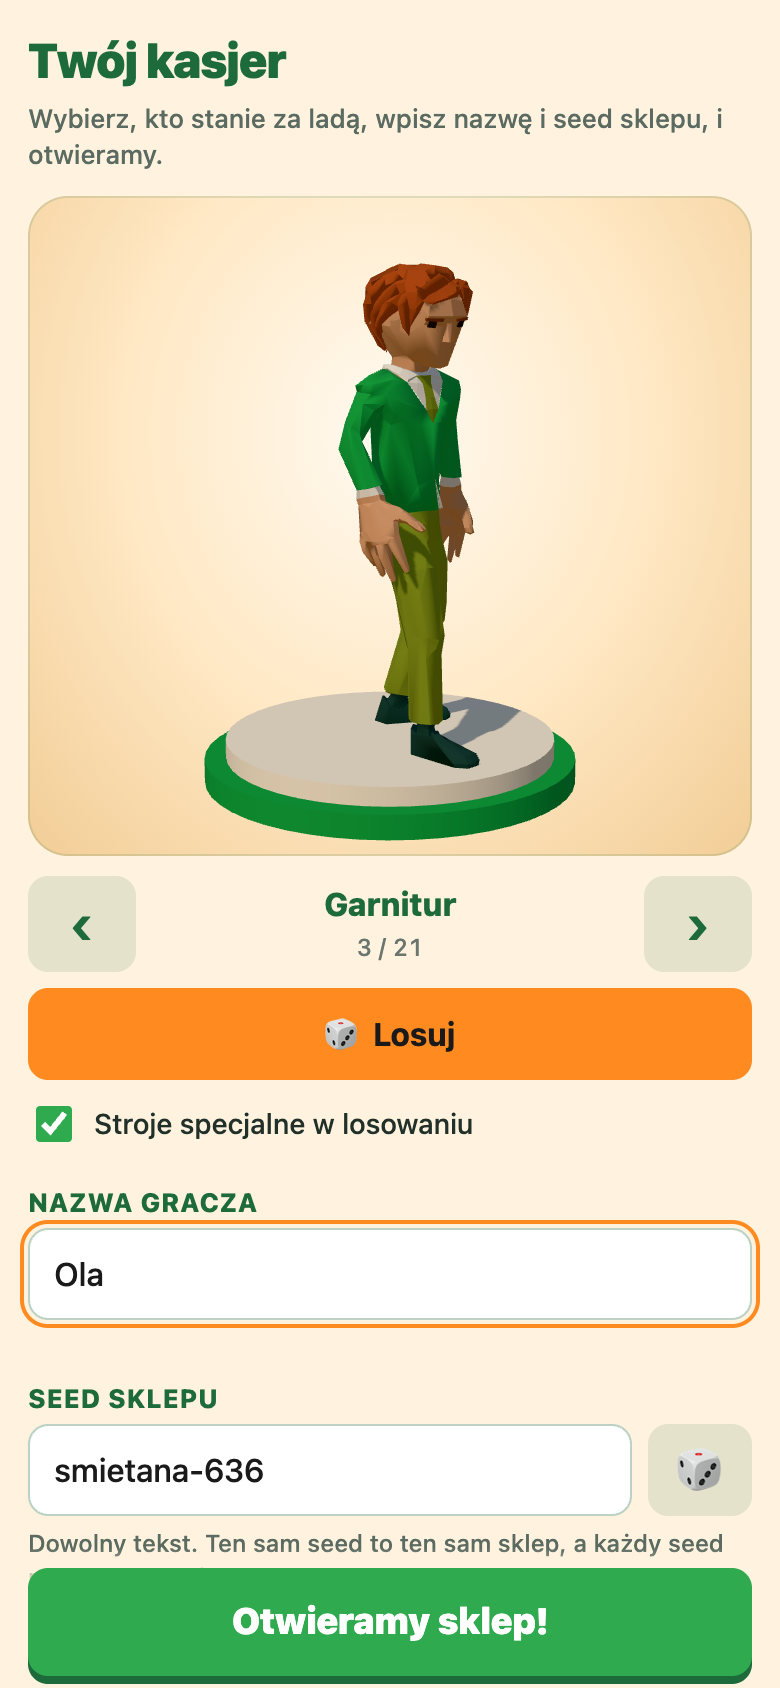
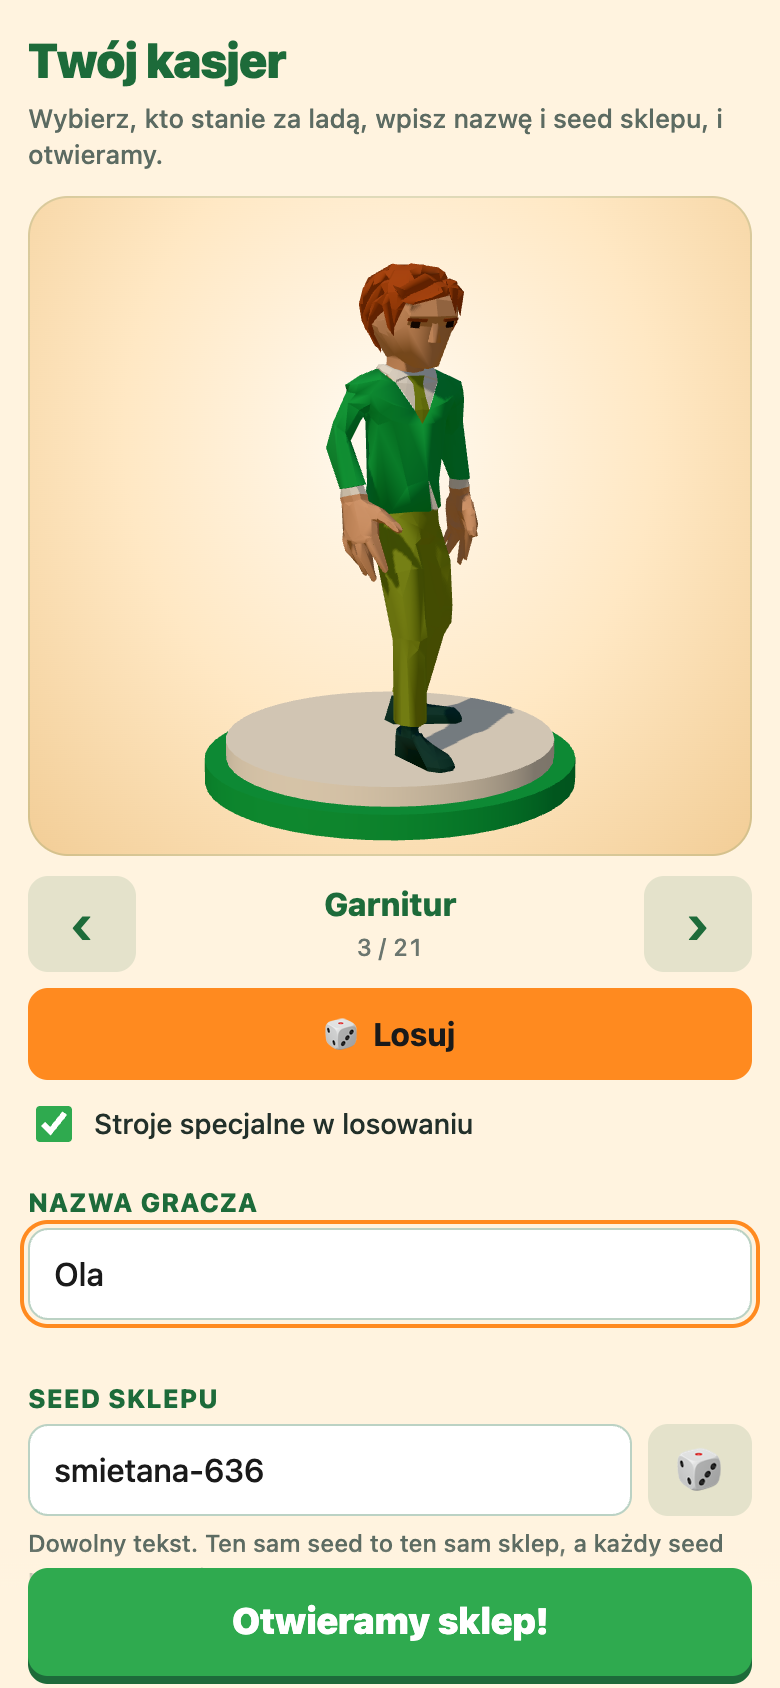
fix(ui): ekran startowy na niskich telefonach i poziomo, a „Otwieramy sklep!” odpowiada od razu
Z przeglądu K3 (Important 2, Minor 6 i 7).

Important 2: na 320×568 i 360×640 przyklejony pasek z przyciskiem leżał na polu nazwy, a pusty nick wołał `focus()`, który nie
przewija (pole formalnie jest w oknie), więc błąd zostawał pod paskiem albo poniżej, i nic widocznego się nie działo.
- Wysokość paska (`.tt-start-go`, 70 px, 118 px z „Wróć do gry”) mierzy `ResizeObserver` i zapisuje w `--tt-go-h` okna ekranu, a CSS
  robi z niej `scroll-padding-bottom` w układach z przyklejonym paskiem: przewijanie do pola (focus klawiszem, klawiatura ekranowa)
  zatrzymuje się nad paskiem. Po złym nicku (po narysowaniu komunikatu, każda zła próba, także z tym samym tekstem) pole wjeżdża
  na środek okna nad pasek razem z błędem, a `focus` idzie z `preventScroll`.
Minor 7: telefon poziomo węższy niż 700 px (667×375) dostawał jedną kolumnę, w której przycisk startu nie mieścił się w oknie bez
przewijania. Jedna kolumna jest teraz dla okna w pionie albo węższego niż 560 px, a niskie okno poziome (do 600 px wysokości, od 560 px
szerokości) ma dwie kolumny z przyciskiem przyklejonym w prawej.
Minor 6: pierwsze malowanie po „Otwieramy sklep!” przychodziło po całej budowie świata (1,15 s w przeglądzie), bo praca szła w tym
samym zadaniu co kliknięcie. `createLauncher` (ui/start/launch.ts) daje odpowiedź od razu (przycisk wyłączony z napisem „Otwieramy…”,
reszta ekranu nie reaguje, „Wróć do gry” i Escape też nie), a pracę zaczyna po klatce (`nextPaint`: rAF, potem zadanie po
[…]

Changed region(s): [[0.4, 0.154, 0.6154, 0.4621], [0.6462, 0.4005, 0.6769, 0.4313]]

diff --git a/src/ui/start/StartScreen.tsx b/src/ui/start/StartScreen.tsx
@@ -8,6 +8,7 @@ import { submitStart } from '@/game/start';
 import type { OutfitFile } from '@/render/characters/modularPack';
 import { DISCLAIMER } from '../game/overlays';
 import { start, type StartRequest } from '../state';
+import { createLauncher, type Launcher } from './launch';
 import { createStartPreview, type StartPreview } from './preview';
 
 /** Nazwy strojów pod podglądem (typ pilnuje, że każdy z 21 strojów ma nazwę). */
@@ -59,8 +60,16 @@ function StartScreen({ request }: { request: StartRequest }) {
   /** Podgląd 3D: `loading` do czasu fabryki postaci, `ready` gdy stoi, `none` gdy się nie udał (formularz działa i bez niego). */
   const [stage, setStage] = useState<'loading' | 'ready' | 'none'>('loading');
   const [pending, setPending] = useState(false);
+  /** „Otwieramy sklep!” ruszyło: przycisk jest wyłączony z napisem „Otwieramy…”, a budowa świata czeka na namalowanie go. */
+  const [busy, setBusy] = useState(false);
+  /** Licznik próśb o pokazanie pola z błędem (każda zła próba zatwierdzenia, także z tym samym komunikatem, przewija na nowo). */
+  const [revealTick, setRevealTick] = useState(0);
+  const wrapRef = useRef<HTMLDivElement>(null);
+  const bandRef = useRef<HTMLDivElement>(null);
   const canvasRef = useRef<HTMLCanvasElement>(null);
   const nickRef = useRef<HTMLInputElement>(null);
+  const launcherRef = useRef<Launcher | null>(null);
+  launcherRef.current ??= createLauncher();
   const previewRef = useRef<StartPreview | null>(null);
   const lookRef = useRef(look);
   lookRef.current = look;
@@ -111,7 +120,10 @@ function StartScreen({ request }: { request: StartRequest }) {
     start.value = null;
     then();
   };
-  const back = (): void => close(() => request.onBack?.());
+  const back = (): void => {
+    if (launcherRef.current?.busy) return;   // „Otwieramy…” już ruszyło: nie ma powrotu
+    close(() => request.onBack?.());
+  };
 
   useEffect(() => {
     if (request.mode !== 'new') return;
@@ -119,6 +131,31 @@ function StartScreen({ request }: { request: StartRequest }) {
     window.addEventListener('keydown', onKey);
     return () => window.removeEventListener('keydown', onKey);
   }, []);
+
+  /**
+   * Przyklejony pasek z przyciskiem (telefon, niskie okno) zasłania dół okna, więc to, co ma być widać (pole z błędem, pole, na które
+   * przeszło się klawiszem), musi zatrzymać się nad nim: wysokość paska idzie do `--tt-go-h`, a CSS robi z niej `scroll-padding-bottom`
+   * okna ekranu (`ui.css`). Pasek bywa wyższy z „Wróć do gry”, ma też pas na dole ekranu telefonu, więc mierzymy go, a nie zgadujemy.
+   */
+  useEffect(() => {
+    const wrap = wrapRef.current;
+    const band = bandRef.current;
+    if (!wrap || !band) return;
+    const sync = (): void => { wrap.style.setProperty('--tt-go-h', `${band.offsetHeight}px`); };
+    sync();
+    if (typeof ResizeObserver === 'undefined') return;
+    const observer = new ResizeObserver(sync);
+    observer.observe(band);
+    return () => observer.disconnect();
+  }, []);
+
+  /** Po złym zatwierdzeniu (już po narysowaniu komunikatu) pole nazwy wjeżdża nad pasek z przyciskiem, razem z błędem pod nim. */
+  useEffect(() => {
+    const input = nickRef.current;
+    if (revealTick === 0 || !input) return;
+    input.scrollIntoView({ block: 'center' });   // wnętrze okna bez paska (scroll-padding-bottom), więc błąd pod polem też jest widać
+    input.focus({ preventScroll: true });
+  }, [revealTick]);
 
   /**
    * Limit pola seeda liczy punkty kodowe (`SEED_MAX`: emoji to jeden znak), więc pilnuje go ten program, a nie `maxLength`, który
@@ -136,21 +173,23 @@ function StartScreen({ request }: { request: StartRequest }) {
 
   const submit = (e: Event): void => {
     e.preventDefault();
+    if (launcherRef.current?.busy) return;
     const result = submitStart({ nick, seed, look, specialOutfits: special });
     if (!result.ok) {
       setNickError(result.nickError);
-      nickRef.current?.focus();
+      setRevealTick((t) => t + 1);
       return;
     }
-    close(() => request.onStart(result.choice));
+    // odpowiedź od razu („Otwieramy…”), a ciężka budowa świata dopiero po jej namalowaniu (launch.ts)
+    launcherRef.current?.launch(() => setBusy(true), () => close(() => request.onStart(result.choice)));
   };
 
   const label = OUTFIT_LABEL[look.outfit];
   const at = OUTFIT_ORDER.indexOf(look.outfit) + 1;
   return (
-    <div class="tt-modal-wrap tt-start-wrap">
+    <div ref={wrapRef} class="tt-modal-wrap tt-start-wrap">
       <div class="tt-modal tt-start" role="dialog" aria-modal="true" aria-labelledby="tt-start-title">
-        <form class="tt-start-grid" noValidate onSubmit={submit}>
+        <form class={`tt-start-grid${busy ? ' is-busy' : ''}`} noValidate aria-busy={busy} onSubmit={submit}>
           <header class="tt-start-head">
             <h2 id="tt-start-title">Twój kasjer</h2>
             <p class="tt-hint">Wybierz, kto stanie za ladą, wpisz nazwę i seed sklepu, i otwieramy.</p>
@@ -190,9 +229,9 @@ function StartScreen({ request }: { request: StartRequest }) {
             </div>
             <p class="tt-hint">Dowolny tekst. Ten sam seed to ten sam sklep, a każdy seed ma własny zapis gry.</p>
 
-            <div class="tt-start-go">
-              <button type="submit" class="tt-btn tt-primary big">Otwieramy sklep!</button>
-              {request.mode === 'new' && <button type="button" class="tt-btn big tt-back" onClick={back}>Wróć do gry</button>}
+            <div ref={bandRef} class="tt-start-go">
+              <button type="submit" class="tt-btn tt-primary big" disabled={busy}>{busy ? 'Otwieramy…' : 'Otwieramy sklep!'}</button>
+              {request.mode === 'new' && <button type="button" class="tt-btn big tt-back" disabled={busy} onClick={back}>Wróć do gry</button>}
             </div>
             <p class="tt-disclaimer2">{DISCLAIMER}</p>
           </section>

diff --git a/src/ui/start/launch.test.ts b/src/ui/start/launch.test.ts
@@ -1,0 +1,109 @@
+import { afterEach, beforeEach, describe, expect, it, vi } from 'vitest';
+import { createLauncher, nextPaint } from './launch';
+
+beforeEach(() => { vi.useFakeTimers(); });
+afterEach(() => { vi.useRealTimers(); });
+
+/** Czy obietnica już się spełniła (bez czekania na nią). */
+const settled = async (promise: Promise<unknown>): Promise<boolean> => {
+  let done = false;
+  void promise.then(() => { done = true; });
+  await Promise.resolve();
+  await Promise.resolve();
+  return done;
+};
+
+describe('nextPaint: spełnia się dopiero po namalowaniu klatki', () => {
+  it('nie wcześniej niż po klatce: rAF woła się przed malowaniem, więc dopiero zadanie zaplanowane z niego liczy się jako „po”', async () => {
+    const frames: (() => void)[] = [];
+    const promise = nextPaint(120, (callback) => frames.push(callback), (callback, ms) => setTimeout(callback, ms));
+    expect(await settled(promise)).toBe(false);          // klatka jeszcze nie przyszła
+    expect(frames).toHaveLength(1);
+    frames[0]!();                                        // klatka: callback rAF, tuż przed malowaniem
+    expect(await settled(promise)).toBe(false);          // jeszcze przed malowaniem: czeka na zadanie po nim
+    await vi.advanceTimersByTimeAsync(0);                // zadanie po malowaniu
+    expect(await settled(promise)).toBe(true);
+  });
+
+  it('karta w tle nie rysuje klatek (rAF stoi): spełnia się po limicie czasu, a nie wisi w nieskończoność', async () => {
+    const promise = nextPaint(120, () => 0, (callback, ms) => setTimeout(callback, ms));
+    await vi.advanceTimersByTimeAsync(119);
+    expect(await settled(promise)).toBe(false);
+    await vi.advanceTimersByTimeAsync(1);
+    expect(await settled(promise)).toBe(true);
+  });
+
+  it('domyślnie używa requestAnimationFrame i setTimeout przeglądarki', async () => {
+    const raf = vi.fn((callback: () => void) => { setTimeout(callback, 16); return 1; });
+    vi.stubGlobal('requestAnimationFrame', raf);
+    try {
+      const promise = nextPaint();
+      expect(raf).toHaveBeenCalledTimes(1);
+      await vi.advanceTimersByTimeAsync(16);               // klatka (callback rAF)
+      expect(await settled(promise)).toBe(false);
+      await vi.advanceTimersByTimeAsync(1);                // zadanie po klatce
+      expect(await settled(promise)).toBe(true);
+    } finally {
+      vi.unstubAllGlobals();
+    }
+  });
+});
+
+describe('createLauncher: odpowiedź od razu, praca po namalowaniu, start tylko raz', () => {
+  /** `wait` sterowane z testu: spełnia się na polecenie. */
+  const gate = () => {
+    let open!: () => void;
+    const wait = vi.fn(() => new Promise<void>((resolve) => { open = resolve; }));
+    return { wait, open: () => open() };
+  };
+
+  it('odpowiedź (feedback) idzie od razu, a praca dopiero po namalowaniu', async () => {
+    const { wait, open } = gate();
+    const order: string[] = [];
+    const launcher = createLauncher(wait);
+    expect(launcher.launch(() => order.push('odpowiedź'), () => order.push('praca'))).toBe(true);
+    expect(order).toEqual(['odpowiedź']);                // praca nie ruszyła w tym samym zadaniu
+    expect(wait).toHaveBeenCalledTimes(1);
+    await Promise.resolve();
+    expect(order).toEqual(['odpowiedź']);
+    open();
+    await Promise.resolve();
+    await Promise.resolve();
+    expect(order).toEqual(['odpowiedź', 'praca']);
+  });
+
+  it('busy od pierwszego wywołania; drugie wywołanie w międzyczasie (podwójne kliknięcie, Enter w polu) nic nie robi', async () => {
+    const { wait, open } = gate();
+    const launcher = createLauncher(wait);
+    expect(launcher.busy).toBe(false);
+    const work = vi.fn();
+    const feedback = vi.fn();
+    expect(launcher.launch(feedback, work)).toBe(true);
+    expect(launcher.busy).toBe(true);
+    expect(launcher.launch(feedback, work)).toBe(false);
+    expect(launcher.launch(feedback, work)).toBe(false);
+    open();
+    await Promise.resolve();
+    await Promise.resolve();
+    expect(feedback).toHaveBeenCalledTimes(1);
+    expect(work).toHaveBeenCalledTimes(1);
+    expect(launcher.launch(feedback, work)).toBe(false);   // po starcie też: ekran i tak się zamyka
+  });
+
+  it('z prawdziwym nextPaint: praca rusza dopiero po klatce, nie w zadaniu kliknięcia', async () => {
+    const frames: (() => void)[] = [];
+    vi.stubGlobal('requestAnimationFrame', (callback: () => void) => frames.push(callback));
+    try {
+      const launcher = createLauncher();
+      const work = vi.fn();
+      launcher.launch(() => {}, work);
+      await Promise.resolve();
+      expect(work).not.toHaveBeenCalled();
+      frames[0]!();
+      await vi.advanceTimersByTimeAsync(0);
+      expect(work).toHaveBeenCalledTimes(1);
+    } finally {
+      vi.unstubAllGlobals();
+    }
+  });
+});

diff --git a/src/ui/start/launch.ts b/src/ui/start/launch.ts
@@ -1,0 +1,49 @@
+/**
+ * „Otwieramy sklep!”: odpowiedź na kliknięcie ma być widoczna od razu, a ciężka praca (budowa świata sklepu, ~1 s na słabszym
+ * sprzęcie) zaczyna się dopiero po namalowaniu tej odpowiedzi. Bez tego przeglądarka stoi przez całą budowę z wciśniętym przyciskiem
+ * i bez żadnej zmiany na ekranie, bo praca idzie w tym samym zadaniu co kliknięcie, przed pierwszym malowaniem.
+ */
+
+/** Najdłużej czekamy na klatkę (ms): karta w tle nie maluje, więc gra nie może czekać na powrót do niej w nieskończoność. */
+const PAINT_FALLBACK_MS = 120;
+
+/**
+ * Spełnia się tuż po namalowaniu bieżącego stanu interfejsu: `requestAnimationFrame` woła się PRZED malowaniem klatki, więc dopiero
+ * zadanie zaplanowane z niego (`setTimeout`) wykonuje się po nim. Karta w tle klatek nie rysuje (rAF stoi), więc po `fallbackMs`
+ * spełnia się i tak. Wywołania `raf` i `later` można podmienić w testach.
+ */
+export function nextPaint(
+  fallbackMs: number = PAINT_FALLBACK_MS,
+  raf: (callback: () => void) => unknown = (callback) => requestAnimationFrame(callback),
+  later: (callback: () => void, ms: number) => unknown = (callback, ms) => setTimeout(callback, ms),
+): Promise<void> {
+  return new Promise((resolve) => {
+    raf(() => later(resolve, 0));
+    later(resolve, fallbackMs);
+  });
+}
+
+export interface Launcher {
+  /** Czy start już ruszył (przycisk jest wyłączony, „Wróć do gry” i Escape też nie działają). */
+  readonly busy: boolean;
+  /**
+   * Daje odpowiedź (`feedback`: np. wyłączony przycisk z napisem „Otwieramy…”) od razu, a `work` uruchamia po namalowaniu jej.
+   * Drugie wywołanie w międzyczasie nic nie robi. Zwraca, czy ruszyło.
+   */
+  launch(feedback: () => void, work: () => void): boolean;
+}
+
+/** Start sklepu jeden raz, z odpowiedzią przed pracą (`wait` to `nextPaint`; w testach podmieniane). */
+export function createLauncher(wait: () => Promise<void> = nextPaint): Launcher {
+  let busy = false;
+  return {
+    get busy() { return busy; },
+    launch(feedback, work) {
+      if (busy) return false;
+      busy = true;
+      feedback();
+      void wait().then(work);
+      return true;
+    },
+  };
+}

diff --git a/src/ui/ui.css b/src/ui/ui.css
@@ -1424,10 +1424,25 @@
   box-shadow: 0 2px 0 var(--tt-green-dark);
 }
 
-/* Telefon: podgląd u góry, formularz pod spodem, a przycisk startu przykleja się do dołu okna, więc nie trzeba go szukać. */
-@media (max-width: 699px) {
+/* „Otwieramy…”: przycisk wyłączony, ale nie wyblakły (to odpowiedź na kliknięcie, a nie przycisk, którego nie wolno użyć); reszta ekranu nie reaguje. */
+.tt-start-go .tt-btn.tt-primary:disabled {
+  opacity: 1;
+  background: var(--tt-green-dark);
+  cursor: progress;
+}
+
+.tt-start-grid.is-busy {
+  pointer-events: none;
+}
+
+/* Telefon w pionie (i każde okno węższe niż 560 px): podgląd u góry, formularz pod spodem, a przycisk startu przykleja się do dołu
+   okna, więc nie trzeba go szukać. Pasek z przyciskiem zasłania dół okna, więc przewijanie do pola (błąd po „Otwieramy sklep!”,
+   Tab, klawiatura ekranowa) zatrzymuje się nad nim: `--tt-go-h` to jego zmierzona wysokość (StartScreen.tsx). Telefon poziomo
+   (667×375, 844×390) ma dwie kolumny (niżej), bo w jednej przycisk startu nie mieści się w oknie bez przewijania. */
+@media (max-width: 699px) and (orientation: portrait), (max-width: 559px) {
   .tt-start-wrap {
     padding: 0;
+    scroll-padding-bottom: calc(var(--tt-go-h, 88px) + 12px);
   }
 
   .tt-modal.tt-start {
@@ -1466,8 +1481,13 @@
   }
 }
 
-/* Niskie okno przy dwóch kolumnach (telefon poziomo): niższy podgląd, a przycisk startu zostaje w oknie przy przewijaniu. */
-@media (max-height: 600px) and (min-width: 700px) {
+/* Niskie okno przy dwóch kolumnach (telefon poziomo, także węższy niż 700 px: 667×375, 568×320): niższy podgląd, a przycisk startu
+   zostaje w oknie przy przewijaniu, nad nim zatrzymują się pola, do których przewija przeglądarka (jak w pionie, wyżej). */
+@media (max-height: 600px) and (orientation: landscape) and (min-width: 560px) {
+  .tt-start-wrap {
+    scroll-padding-bottom: calc(var(--tt-go-h, 88px) + 12px);
+  }
+
   .tt-modal.tt-start {
     padding: 14px 22px 12px;
   }

diff --git a/docs/style-guide.md b/docs/style-guide.md
@@ -54,7 +54,7 @@ Emissive (kolor, `emissiveIntensity`):
 - Personel nosi `brand.green`, klient nigdy. Kasjer w stroju zwykłym ma górę w `brand.green` (nadpisanie wyglądu w `createWithOutfit(seed, outfit, { top })`, ruling R43), w stroju specjalnym zostaje sobą (to żart); decyduje strój, który faktycznie powstał, więc zwykły podstawiony za specjalny, którego plik się nie wczytał, też nosi mundur. Góra i dół w różnych kolorach. Białe części stroju (kołnierz koszuli, podeszwy) mają ciepłą biel `wall[0]`: przyciągnięte do PALETTE dawały szaroniebieski kołnierz, który pod brodą czytał się jak zarost.
 - **Cienie postaci (decyzja R30):** każda postać ma miękką plamę cienia (`characters/blobShadows.ts`: jedna `InstancedMesh` na cały tłum, 1 draw call, kolor `wall[4]`, promień 0,54 m × tusza, krycie 0,82, `userData.treatAsOpaque` przeciw zerowaniu AO przez N8AO) na wszystkich presetach. Prawdziwy cień z mapy cieni (+1 draw call i ~2,9 tys. trójkątów na postać) tylko na presecie `wysoka` (`QualitySettings.characterShadows`). Kasjer ma w tej siatce jedno zarezerwowane miejsce (`reserve()`, tłum zapisuje się za nim).
 - **Kasjer za ladą** (`game/cashier.ts`, `render/cashierView.ts`): stoi na kratce pasa personelu tuż za kasą, w wierszu miejsca klienta przy kasie (`cashierSpot`), i patrzy na kasę. Gra `Idle`. Klient płacący przy kasie (`cashierCues`: stan `paying` na `checkoutQueue[0]`) obraca go do siebie z tą samą prędkością i wygładzaniem co tłum (`TURN_RATE_MAX`), a sprzedaż (klient odchodzi) wyzwala krótki gest proceduralny, bez nowych klipów: podskok 0,12 m z ukłonem 0,2 rad w 0,35 s animacji. Koszt: 1 draw call (+1 cień na `wysoka`) i jedno miejsce w plamach cienia. Regał z papierosami za jego plecami tnie się razem ze ścianą, przy której stoi (§7, R49), więc kasjer jest widoczny z każdego z czterech kątów kamery (od pasa w górę nawet przy kamerze po stronie regału).
-- **Ekran startowy „Twój kasjer”** (`ui/start/StartScreen.tsx`, `ui/start/preview.ts`, logika w `game/start.ts`): podgląd kasjera ma własny, lekki renderer na własnej kanwie (bez postprocessingu, AO i bloomu; hemisfera, jedno światło z przodu z mapą cienia 512², tone mapping Neutral jak w grze, przezroczyste tło pod gradient CSS) i obrotowy podest (kolory marki: cream na wierzchu, zieleń wokół; przeciąganie obraca, po 2,5 s wraca samoczynny obrót). Kasjera buduje ta sama funkcja co w sklepie (`createCashierCharacter`: mundur dla stroju zwykłego, strój specjalny zostaje sobą), więc podgląd pokazuje dokładnie tego kasjera, który stanie za ladą. Fabryka postaci jest wspólna z grą (strój specjalny dociąga się dopiero przy pokazaniu: `ensureOutfit`, R40; gra nie pobiera go drugi raz), a renderer podglądu jest zwalniany razem z kontekstem WebGL, zanim ruszy gra (przy „Nowy sklep” z ⚙ gra stoi pod ekranem z własnym kontekstem, więc kontekstów jest wtedy dwa). Podgląd rysuje wyłącznie to, co sam zwalnia: three zapisuje renderer na zdarzenie `dispose` każdej geometrii i materiału, które narysuje, a własne `dispose()` renderera tych zapisów nie zdejmuje, więc podest ma własne kopie materiałów z pamięci stylu, siatka kasjera własną kopię geometrii wspólnej z grą, a globalna tekstura DFG LUT three 0.186 (jedna na stronę, w uniformie każdego materiału fizycznego) jest zwalniana przy zamknięciu ekranu (żywy renderer gry wgra jej 16×16 px jeszcze raz). Bez tego każde otwarcie ekranu zostawiało w pamięci jeden `WebGLRenderer`; po 14 otwarciach i zamknięciach „Nowy sklep” żywy jest jeden (gry), a stos JS rośnie o ≤ 0,06 MB na otwarcie (kod JIT). Kadr liczy `cameraDistance` z proporcji kanwy (telefon w pionie dostaje kamerę dalej). Uchwyt do testów: `window.traszkaStart.preview` (`show`, `setYaw`, `look`).
+- **Ekran startowy „Twój kasjer”** (`ui/start/StartScreen.tsx`, `ui/start/preview.ts`, logika w `game/start.ts`): podgląd kasjera ma własny, lekki renderer na własnej kanwie (bez postprocessingu, AO i bloomu; hemisfera, jedno światło z przodu z mapą cienia 512², tone mapping Neutral jak w grze, przezroczyste tło pod gradient CSS) i obrotowy podest (kolory marki: cream na wierzchu, zieleń wokół; przeciąganie obraca, po 2,5 s wraca samoczynny obrót). Kasjera buduje ta sama funkcja co w sklepie (`createCashierCharacter`: mundur dla stroju zwykłego, strój specjalny zostaje sobą), więc podgląd pokazuje dokładnie tego kasjera, który stanie za ladą. Fabryka postaci jest wspólna z grą (strój specjalny dociąga się dopiero przy pokazaniu: `ensureOutfit`, R40; gra nie pobiera go drugi raz), a renderer podglądu jest zwalniany razem z kontekstem WebGL, zanim ruszy gra (przy „Nowy sklep” z ⚙ gra stoi pod ekranem z własnym kontekstem, więc kontekstów jest wtedy dwa). Podgląd rysuje wyłącznie to, co sam zwalnia: three zapisuje renderer na zdarzenie `dispose` każdej geometrii i materiału, które narysuje, a własne `dispose()` renderera tych zapisów nie zdejmuje, więc podest ma własne kopie materiałów z pamięci stylu, siatka kasjera własną kopię geometrii wspólnej z grą, a globalna tekstura DFG LUT three 0.186 (jedna na stronę, w uniformie każdego materiału fizycznego) jest zwalniana przy zamknięciu ekranu (żywy renderer gry wgra jej 16×16 px jeszcze raz). Bez tego każde otwarcie ekranu zostawiało w pamięci jeden `WebGLRenderer`; po 14 otwarciach i zamknięciach „Nowy sklep” żywy jest jeden (gry), a stos JS rośnie o ≤ 0,06 MB na otwarcie (kod JIT). Kadr liczy `cameraDistance` z proporcji kanwy (telefon w pionie dostaje kamerę dalej). Układ: telefon w pionie (i okno węższe niż 560 px) to jedna kolumna z przyciskiem startu przyklejonym do dołu, telefon poziomo (667×375, 844×390, 568×320) to dwie kolumny z przyciskiem przyklejonym w prawej, więc przycisk startu jest w oknie bez przewijania na 320×568, 360×640, 667×375 i 844×390. Przyklejony pasek zasłania dół okna, więc przewijanie do pól (zły nick po „Otwieramy sklep!”, Tab) zatrzymuje się nad nim: `scroll-padding-bottom` z zmierzonej wysokości paska (`--tt-go-h`), a błąd pod polem jest przewijany na środek okna. „Otwieramy sklep!” odpowiada od razu („Otwieramy…”, przycisk wyłączony), a budowa świata (~1–2 s na SwiftShaderze) rusza dopiero po namalowaniu tej odpowiedzi (`ui/start/launch.ts`). Uchwyt do testów: `window.traszkaStart.preview` (`show`, `setYaw`, `look`).
 - Animacja: powyżej ×4 nogi chodzą w tempie ×4 (`ANIM_SPEED_CAP`), a postać przesuwa się z prędkością gry; przy ×8 klip chodu migał (stroboskop).
 
 ## 6. Humor
